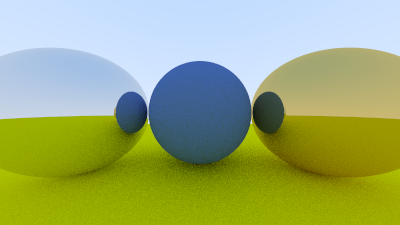
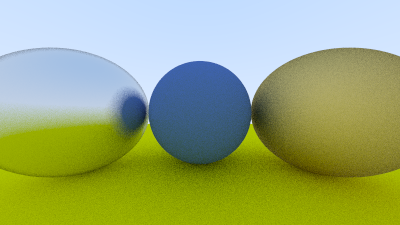
*fuzzy* metal

diff --git a/src/material.rs b/src/material.rs
@@ -32,11 +32,15 @@ impl Material for Lambertian {
 
 pub struct Metal {
     albedo: Vec3,
+    fuzz: f32,
 }
 
 impl Metal {
-    pub fn new(albedo: Vec3) -> Self {
-        Self { albedo }
+    pub fn new(albedo: Vec3, fuzz: f32) -> Self {
+        Self {
+            albedo,
+            fuzz: fuzz.min(1.0),
+        }
     }
 
     fn reflect(vector: Vec3, normal: Vec3) -> Vec3 {
@@ -46,8 +50,13 @@ impl Metal {
 
 impl Material for Metal {
     fn scatter(&self, r_in: &Ray, rec: &HitRecord) -> Option<(Vec3, Ray)> {
-        let reflected = Metal::reflect(r_in.direction, rec.normal);
+        let reflected = Metal::reflect(r_in.direction, rec.normal).normalize()
+            + (random_unit_vector() * self.fuzz);
 
-        Some((self.albedo, Ray::new(rec.point, reflected)))
+        if reflected.dot(rec.normal) > 0.0 {
+            Some((self.albedo, Ray::new(rec.point, reflected)))
+        } else {
+            None
+        }
     }
 }

diff --git a/src/main.rs b/src/main.rs
@@ -20,8 +20,8 @@ const IMAGE_WIDTH: u32 = 400;
 fn main() {
     let material_ground = Arc::new(Lambertian::new(Vec3::new(0.8, 0.8, 0.0)));
     let material_center = Arc::new(Lambertian::new(Vec3::new(0.1, 0.2, 0.5)));
-    let material_left = Arc::new(Metal::new(Vec3::new(0.8, 0.8, 0.8)));
-    let material_right = Arc::new(Metal::new(Vec3::new(0.8, 0.6, 0.2)));
+    let material_left = Arc::new(Metal::new(Vec3::new(0.8, 0.8, 0.8), 0.3));
+    let material_right = Arc::new(Metal::new(Vec3::new(0.8, 0.6, 0.2), 1.0));
 
     let world = HittableList::new(vec![
         Box::new(Sphere::new(

diff --git a/src/ray.rs b/src/ray.rs
@@ -1,5 +1,4 @@
 use crate::hittable::{Hittable, HittableList};
-use crate::utils::random_unit_vector;
 use crate::vec3::Vec3;
 
 pub struct Ray {
